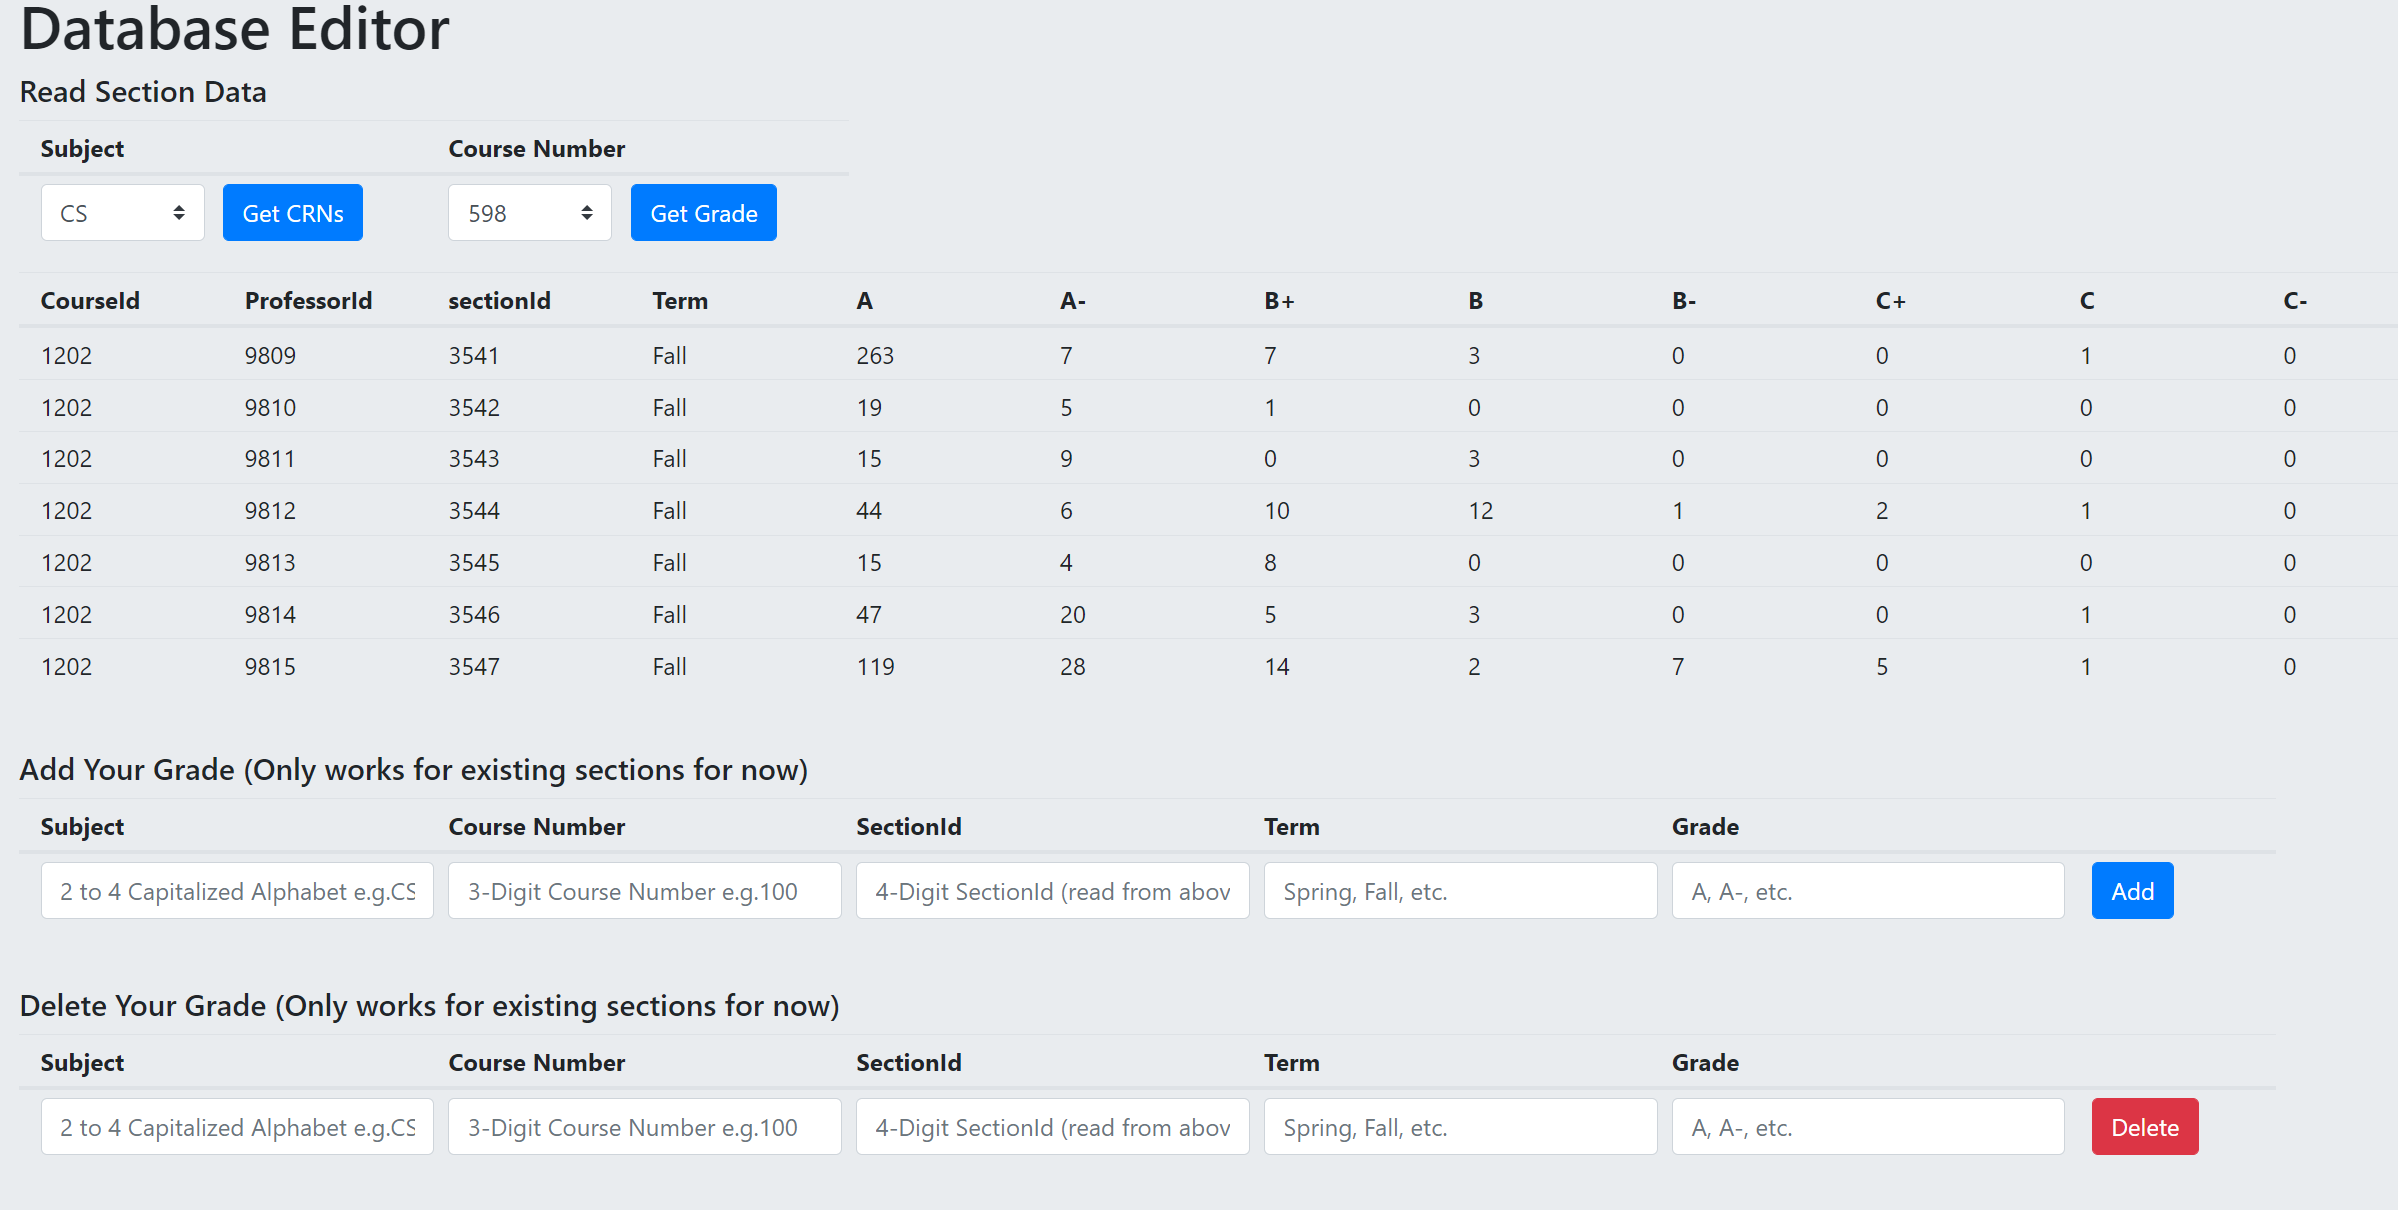
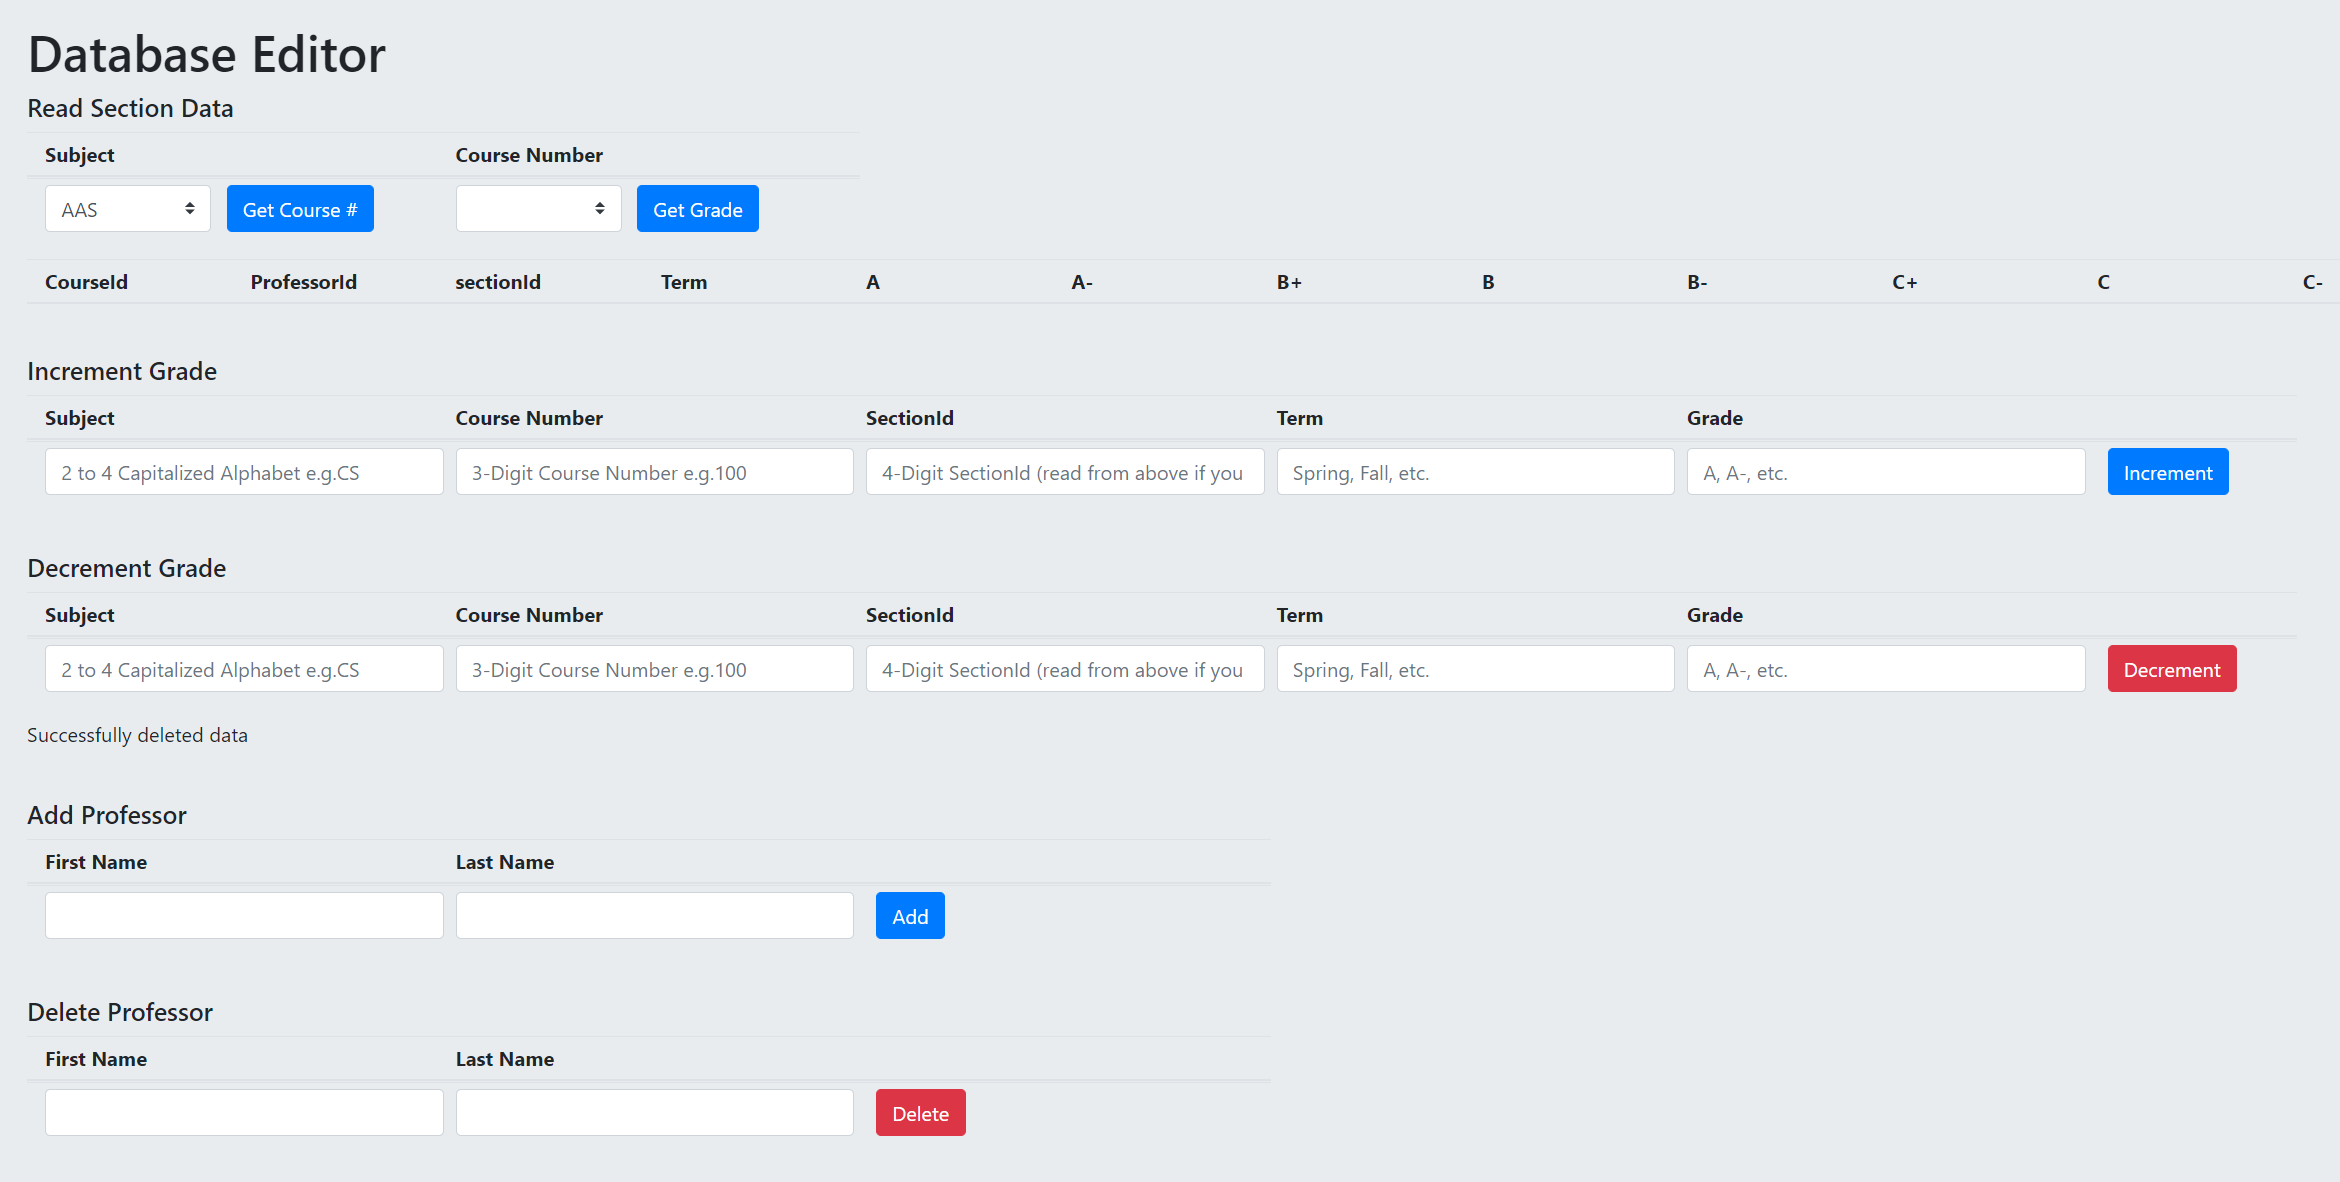
add and delete

diff --git a/app/templates/index.html b/app/templates/index.html
@@ -117,7 +117,7 @@
                                         {% endif %}
                                     {% endfor %}
                                 </select>
-                                <button type="submit" class="btn btn-primary ml-2 col-auto">Get CRNs</button>
+                                <button type="submit" class="btn btn-primary ml-2 col-auto">Get Course #</button>
                             </td>
                             <td class="col-2">
                                 <select name="CRN" class="browser-default custom-select col-5">
@@ -207,7 +207,7 @@
             </table>
         </div>
         &nbsp;
-        <h5>Add Your Grade (Only works for existing sections for now)</h5>
+        <h5>Increment Grade</h5>
         <div class="table table-sm">
             <table class="table">
                 <thead>
@@ -222,7 +222,7 @@
                 </tr>
                 </thead>
                 <tbody>
-                    <form class="form-inline" method="POST" action="/insert">
+                    <form class="form-inline" method="POST" action="/increment">
                         <tr class="d-flex">
                             <td class="col-0">
                             </td>
@@ -242,7 +242,7 @@
                                 <input type="text" class="form-control" name="gradeI" placeholder="A, A-, etc.">
                             </td>
                             <td class="col-md-1">
-                                <button type="submit" class="btn btn-primary ml-2 col-auto">Add</button>
+                                <button type="submit" class="btn btn-primary ml-2 col-auto">Increment</button>
                             </td>
                         </tr>
                     </form>
@@ -251,7 +251,7 @@
             {{wRes}}
         </div>
         &nbsp;
-        <h5>Delete Your Grade (Only works for existing sections for now)</h5>
+        <h5>Decrement Grade</h5>
         <div class="table table-sm">
             <table class="table">
                 <thead>
@@ -266,7 +266,7 @@
                 </tr>
                 </thead>
                 <tbody>
-                    <form class="form-inline" method="POST" action="/delete">
+                    <form class="form-inline" method="POST" action="/decrement">
                         <tr class="d-flex">
                             <td class="col-0">
                             </td>
@@ -286,13 +286,75 @@
                                 <input type="text" class="form-control" name="gradeD" placeholder="A, A-, etc.">
                             </td>
                             <td class="col-md-1">
-                                <button type="submit" class="btn btn-danger ml-2 col-auto">Delete</button>
+                                <button type="submit" class="btn btn-danger ml-2 col-auto">Decrement</button>
                             </td>
                         </tr>
                     </form>
                 </tbody>
             </table>
             {{dRes}}
+        </div>
+        &nbsp;
+        <h5>Add Professor</h5>
+        <div class="table table-sm">
+            <table class="table">
+                <thead>
+                <tr class="d-flex">
+                    <th class="col-0"></th>
+                    <th class="col-2">First Name</th>
+                    <th class="col-2">Last Name</th>
+                    <th class="col-2"></th>
+                </tr>
+                </thead>
+                <tbody>
+                    <tr class="d-flex">
+                        <form class="form-inline" method="POST" action="/addProf">
+                            <td class="col-0"></td>
+                            <td class="col-2">
+                                <input type="text" class="form-control" name="profFN">
+                            </td>
+                            <td class="col-2">
+                                <input type="text" class="form-control" name="profLN">
+                            </td>
+                            <td class="col-2">
+                                <button type="submit" class="btn btn-primary ml-2 col-auto">Add</button>
+                            </td>
+                        </form>
+                    </tr>
+                </tbody>
+            </table>
+            {{apRes}}
+        </div>
+        &nbsp;
+        <h5>Delete Professor</h5>
+        <div class="table table-sm">
+            <table class="table">
+                <thead>
+                <tr class="d-flex">
+                    <th class="col-0"></th>
+                    <th class="col-2">First Name</th>
+                    <th class="col-2">Last Name</th>
+                    <th class="col-2"></th>
+                </tr>
+                </thead>
+                <tbody>
+                    <tr class="d-flex">
+                        <form class="form-inline" method="POST" action="/deleteProf">
+                            <td class="col-0"></td>
+                            <td class="col-2">
+                                <input type="text" class="form-control" name="profFND">
+                            </td>
+                            <td class="col-2">
+                                <input type="text" class="form-control" name="profLND">
+                            </td>
+                            <td class="col-2">
+                                <button type="submit" class="btn btn-danger ml-2 col-auto">Delete</button>
+                            </td>
+                        </form>
+                    </tr>
+                </tbody>
+            </table>
+            {{dpRes}}
         </div>
     </div>
         <!-- <div class="table table-sm">

diff --git a/app/routes.py b/app/routes.py
@@ -38,8 +38,8 @@ def read():
     else:
         return None
 
-@app.route('/insert', methods=['POST', 'GET'])
-def insert():
+@app.route('/increment', methods=['POST', 'GET'])
+def increment():
     subjects = db.get_subjects()
     subjectI = request.form['subjectI']
     courseNumberI = request.form['courseNumberI']
@@ -62,7 +62,7 @@ def insert():
     if gradeI not in ['A','A-','B+','B','B-','C+','C','C-','D+','D','D-','F','W']:
         wRes = "Put correct grade ('A','A-','B+','B','B-','C+','C','C-','D+','D','D-','F','W')"
         return render_template('index.html', subjects=subjects, wRes=wRes)
-    res = db.insert_section(subjectI, courseNumberI, sectionIdI, termI, gradeI)
+    res = db.increment_section(subjectI, courseNumberI, sectionIdI, termI, gradeI)
     if res == 1: 
         wRes = "Successfully wrote data"
     elif res == -1: 
@@ -71,8 +71,8 @@ def insert():
         wRes = "Such course does not exist. Change subject or course number"
     return render_template('index.html', subjects=subjects, wRes=wRes)
 
-@app.route('/delete', methods=['POST', 'GET'])
-def delete():
+@app.route('/decrement', methods=['POST', 'GET'])
+def decrement():
     subjects = db.get_subjects()
     subjectD = request.form['subjectD']
     courseNumberD = request.form['courseNumberD']
@@ -95,7 +95,7 @@ def delete():
     if gradeD not in ['A','A-','B+','B','B-','C+','C','C-','D+','D','D-','F','W']:
         dRes = "Put correct grade ('A','A-','B+','B','B-','C+','C','C-','D+','D','D-','F','W')"
         return render_template('index.html', subjects=subjects, dRes=dRes)
-    res = db.delete_section(subjectD, courseNumberD, sectionIdD, termD, gradeD)
+    res = db.decrement_section(subjectD, courseNumberD, sectionIdD, termD, gradeD)
     if res == 1: 
         dRes = "Successfully deleted data"
     elif res == -1: 
@@ -103,3 +103,27 @@ def delete():
     else:
         dRes = "Such course does not exist. Change subject or course number"
     return render_template('index.html', subjects=subjects, dRes=dRes)
+
+@app.route('/addProf', methods=['POST', 'GET'])
+def addProf():
+    subjects = db.get_subjects()
+    firstName = request.form['profFN']
+    lastName = request.form['profLN']
+    if firstName.isalpha() == False or lastName.isalpha() == False:
+        apRes = "Put correct name"
+        return render_template('index.html', subjects=subjects, apRes=apRes)
+    db.add_professor(firstName, lastName)
+    apRes = "Professor successfully added"
+    return render_template('index.html', subjects=subjects, apRes=apRes)
+
+@app.route('/deleteProf', methods=['POST', 'GET'])
+def deleteProf():
+    subjects = db.get_subjects()
+    firstName = request.form['profFND']
+    lastName = request.form['profLND']
+    if firstName.isalpha() == False or lastName.isalpha() == False:
+        dpRes = "Put correct name"
+        return render_template('index.html', subjects=subjects, dpRes=dpRes)
+    db.delete_professor(firstName, lastName)
+    dpRes = "Professor successfully added"
+    return render_template('index.html', subjects=subjects, dpRes=dpRes)

diff --git a/app/rds_db.py b/app/rds_db.py
@@ -68,7 +68,7 @@ def get_sectionInfos(deptCode, CRN):
     sectionInfos = cur.fetchall()
     return sectionInfos
 
-def insert_section(subject, courseNumber, sectionId, term, grade):
+def increment_section(subject, courseNumber, sectionId, term, grade):
     cur = conn.cursor()
     cur.execute("select courseId from Course where departmentCode = %s and courseNumber = %s", (subject, courseNumber))
     details = cur.fetchall()
@@ -97,7 +97,7 @@ def insert_section(subject, courseNumber, sectionId, term, grade):
         conn.commit()
     return 1
 
-def delete_section(subject, courseNumber, sectionId, term, grade):
+def decrement_section(subject, courseNumber, sectionId, term, grade):
     cur = conn.cursor()
     cur.execute("select courseId from Course where departmentCode = %s and courseNumber = %s", (subject, courseNumber))
     details = cur.fetchall()
@@ -115,10 +115,25 @@ def delete_section(subject, courseNumber, sectionId, term, grade):
         conn.commit()
     return 1
 
+def add_professor(firstName, lastName):
+    cur = conn.cursor()
+    cur.execute("insert into Professor (firstName, lastName) values (%s, %s)", (firstName, lastName))
+    conn.commit()
+
+def delete_professor(firstName, lastName):
+    cur = conn.cursor()
+    cur.execute("delete from Professor where firstName = %s and lastName = %s", (firstName, lastName))
+    conn.commit()
 
 def access_data():
     cur = conn.cursor()
-    cur.execute("describe Section")
+    cur.execute("describe Professor")
+    details = cur.fetchall()
+    return details
+
+def check_professor():
+    cur = conn.cursor()
+    cur.execute("select * from Professor where firstName = 'Steven' and lastName = 'Pan'")
     details = cur.fetchall()
     return details
 
@@ -127,3 +142,4 @@ def access_data():
 # print(access_data())
 # print(get_CRNs('IS'))
 # get_grade('ECE', 110)
+# print(check_professor())
